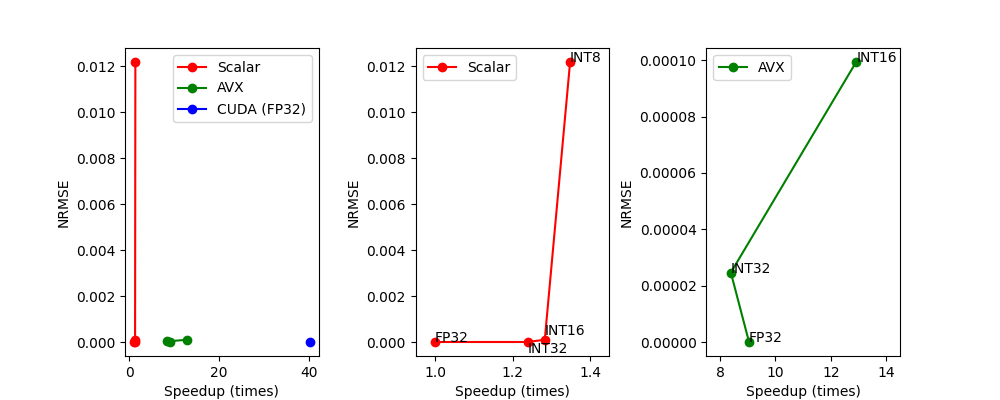
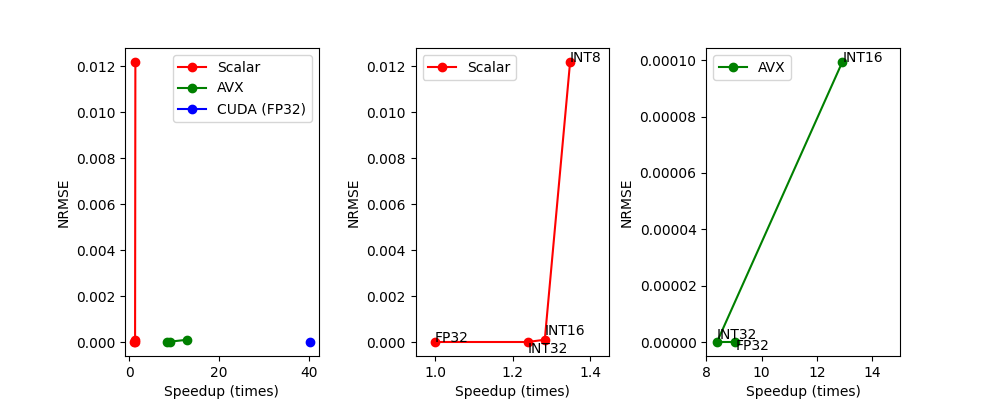
final

diff --git a/code/visualize/main.py b/code/visualize/main.py
@@ -61,9 +61,9 @@ def main():
     p3_nrmse_fp32 =  [[0.00000004068699510640, 0.00000004068699510640, 0.00000004068699510640],
                    [0.00000006167062593931, 0.00000006167062593931, 0.00000006167062593931],
                    [0.00000004176184020821, 0.00000004176184020821, 0.00000004176184020821]]
-    p3_nrmse_int32 = [[0.00001974275619431864, 0.00001974275619431864, 0.00001974275619431864],
-                   [0.00002243215931230225, 0.00002243215931230225, 0.00002243215931230225],
-                   [0.00003184317756677046, 0.00003184317756677046, 0.00003184317756677046]]
+    p3_nrmse_int32 = [[0.00000004084621352263, 0.00000004084621352263, 0.00000004084621352263],
+                   [0.00000006036117383701, 0.00000006036117383701, 0.00000006036117383701],
+                   [0.00000004598248182219, 0.00000004598248182219, 0.00000004598248182219]]
     p3_nrmse_int16 =  [[0.00007786053174640983, 0.00007786053174640983, 0.00007786053174640983],
                    [0.00008945982699515298, 0.00008945982699515298, 0.00008945982699515298],
                    [0.00013071547436993569, 0.00013071547436993569, 0.00013071547436993569]]
@@ -197,10 +197,10 @@ def main():
     x = [p1_ctime_avg/p3_ctime_fp32_avg, p1_ctime_avg/p3_ctime_int32_avg, p1_ctime_avg/p3_ctime_int16_avg]
     y = [p3_nrmse_fp32_avg, p3_nrmse_int32_avg, p3_nrmse_int16_avg]
     plt.plot(x, y, '-go', label="AVX")
-    plt.annotate('FP32',  xy=[p1_ctime_avg/p3_ctime_fp32_avg, p3_nrmse_fp32_avg], textcoords='data', clip_on=True)
-    plt.annotate('INT32', xy=[p1_ctime_avg/p3_ctime_int32_avg, p3_nrmse_int32_avg], textcoords='data', clip_on=True)
+    plt.annotate('FP32',  xy=[p1_ctime_avg/p3_ctime_fp32_avg, p3_nrmse_fp32_avg-0.000003], textcoords='data', clip_on=True)
+    plt.annotate('INT32', xy=[p1_ctime_avg/p3_ctime_int32_avg, p3_nrmse_int32_avg+0.000001], textcoords='data', clip_on=True)
     plt.annotate('INT16', xy=[p1_ctime_avg/p3_ctime_int16_avg, p3_nrmse_int16_avg], textcoords='data', clip_on=True)
-    plt.xlim([7.5, 14.5])
+    plt.xlim([8, 15])
     plt.xlabel("Speedup (times)")
     plt.ylabel("NRMSE")
     plt.legend()
@@ -219,7 +219,7 @@ def main():
     sparsity_int8  = [[50923/222784, 2495/36864, 53/200704],
                      [34175/123008, 13037/147456, 13/100352],
                      [12433/32768, 101475/1048576, 66/100352]]
-    plt.figure()
+    plt.figure(figsize=(4,3))
     sparsity_input = [np.asarray(sparsity_int32).mean(axis=0)[0], np.asarray(sparsity_int16).mean(axis=0)[0], np.asarray(sparsity_int8).mean(axis=0)[0]]
     sparsity_kernel = [np.asarray(sparsity_int32).mean(axis=0)[1], np.asarray(sparsity_int16).mean(axis=0)[1], np.asarray(sparsity_int8).mean(axis=0)[1]]
     sparsity_output = [np.asarray(sparsity_int32).mean(axis=0)[2], np.asarray(sparsity_int16).mean(axis=0)[2], np.asarray(sparsity_int8).mean(axis=0)[2]]
